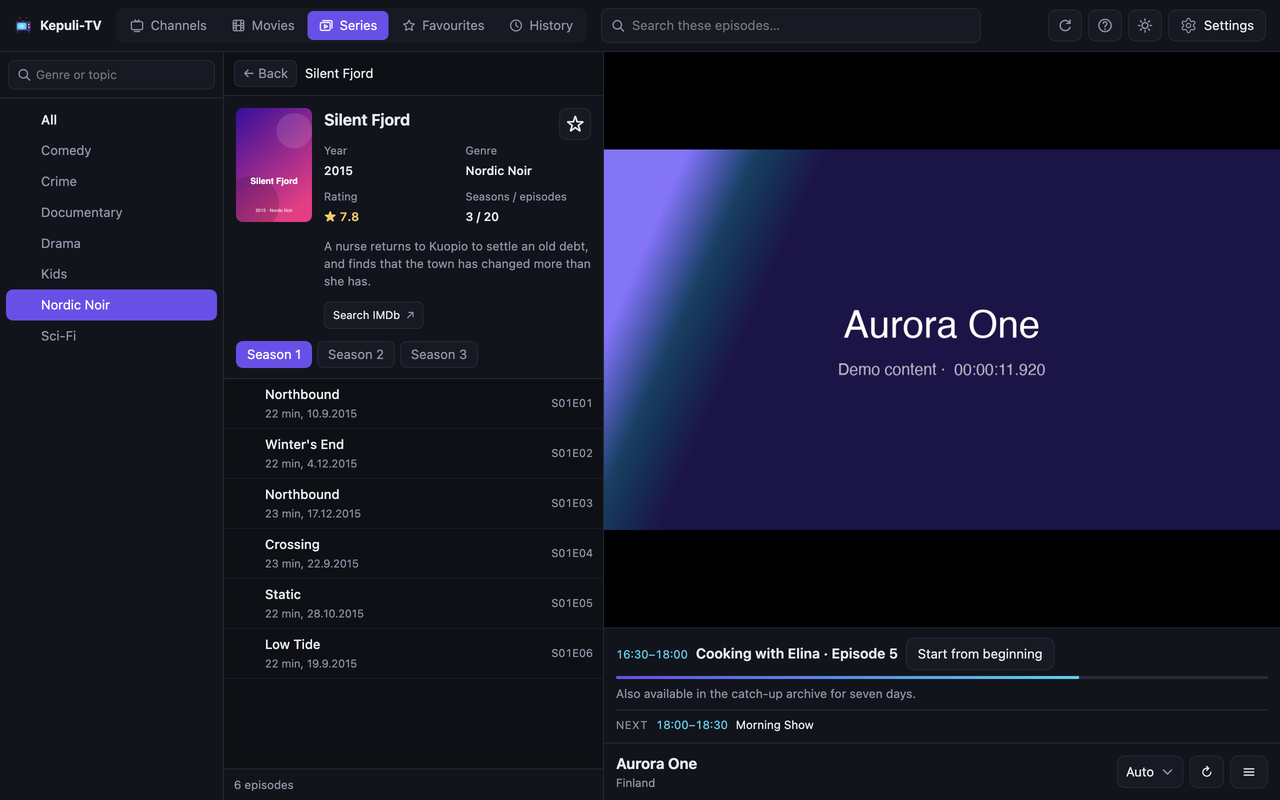
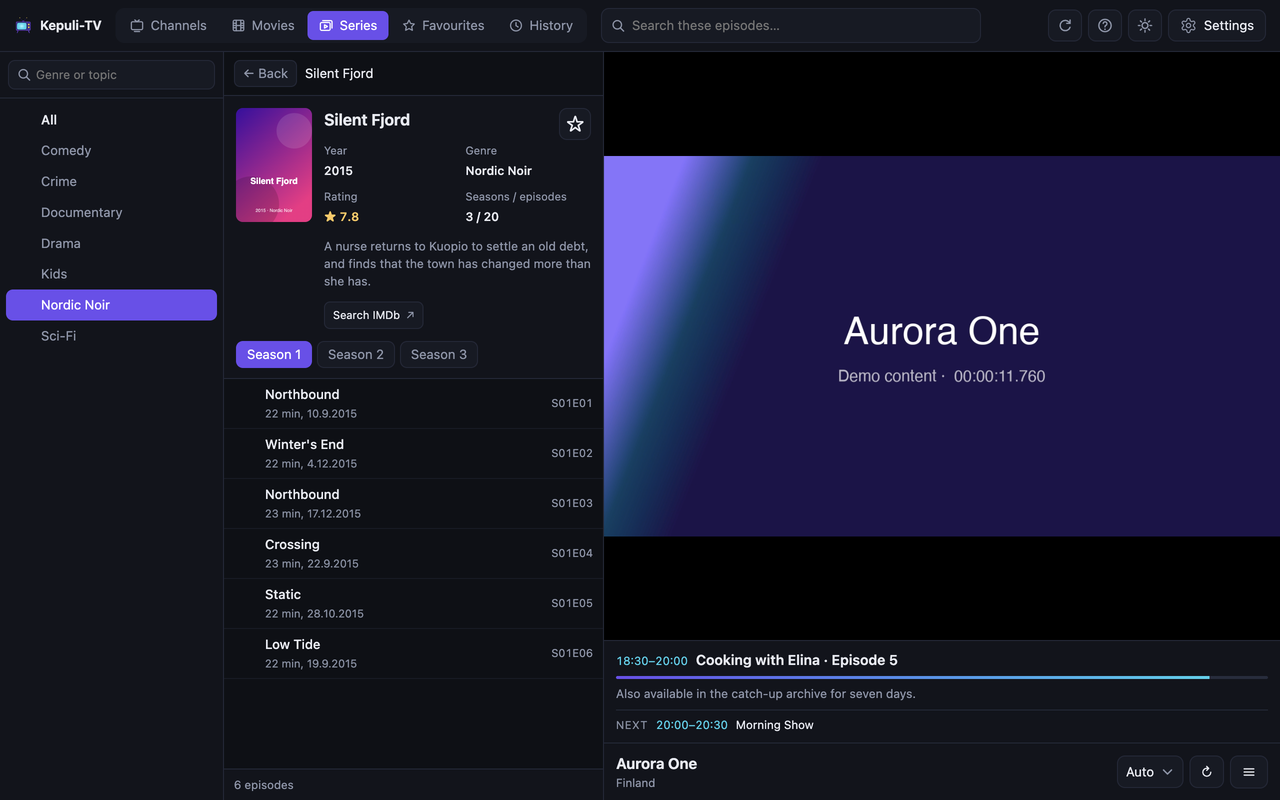
Retake both stores' screenshots, and set down how AMO's languages really work
- Both sets of store screenshots are taken again from the released player:
  the old first picture still had "Start from beginning" under the player.
- store-listing.txt: AMO does not read the name and the summary from
  _locales/, so every language's three fields and its screenshot captions
  are filled in by hand; the table names each language as AMO's menu does,
  with its code and its file. AMO has no Danish, so Danish readers get the
  English listing; Portuguese (Europe) takes the Brazilian text.
- brand/firefox-screenshots/README.md: the captions in the twelve other
  languages, as they now stand on AMO.

Claude-Session: https://claude.ai/code/session_011jsMnraukZKfM6bFsVwDJM

diff --git a/brand/firefox-screenshots/README.md b/brand/firefox-screenshots/README.md
@@ -19,3 +19,120 @@ would need a 2560 × 1600 window — so this set is captured at 1×.
 | 03-series.png | Browse series details, seasons and episodes. Shown with fictional demo content in Firefox. |
 | 04-subtitles.png | Play an MKV episode with text subtitles and choose their language and size. Shown with fictional demo content in Firefox. |
 | 05-movie.png | Watch a movie with its description and details beside your catalogue, shown as covers. Shown with fictional demo content in Firefox. |
+
+## The captions in the listing's other languages
+
+AMO keeps a caption per screenshot per language (Edit Product Page → Images,
+with "Localize for:" set to the language). Each uses the form of address of
+that language's store listing. AMO has no Danish, so there is none here; see
+"SETTING THE LANGUAGES ON ADDONS.MOZILLA.ORG" in store-listing.txt.
+
+### suomi (fi)
+
+| File | Caption |
+| --- | --- |
+| 01-channels.png | Selaa kanavia maittain ja aiheittain samalla, kun katsot suoraa lähetystä. Kuvassa kuvitteellista demosisältöä Firefoxissa. |
+| 02-guide.png | Tutki ohjelmaopasta, kun toisto jatkuu minisoittimessa. Kuvassa kuvitteellista demosisältöä Firefoxissa. |
+| 03-series.png | Selaa sarjan tietoja, tuotantokausia ja jaksoja. Kuvassa kuvitteellista demosisältöä Firefoxissa. |
+| 04-subtitles.png | Toista MKV-jakso tekstityksineen ja valitse tekstityksen kieli ja koko. Kuvassa kuvitteellista demosisältöä Firefoxissa. |
+| 05-movie.png | Katso elokuvaa niin, että sen kuvaus ja tiedot ovat vieressä ja kokoelmasi kansikuvina. Kuvassa kuvitteellista demosisältöä Firefoxissa. |
+
+### Svenska (sv-SE)
+
+| File | Caption |
+| --- | --- |
+| 01-channels.png | Bläddra bland kanaler efter land och ämne medan du tittar på live-tv. Visas med påhittat demoinnehåll i Firefox. |
+| 02-guide.png | Utforska programguiden medan uppspelningen fortsätter i minispelaren. Visas med påhittat demoinnehåll i Firefox. |
+| 03-series.png | Bläddra bland seriens detaljer, säsonger och avsnitt. Visas med påhittat demoinnehåll i Firefox. |
+| 04-subtitles.png | Spela upp ett MKV-avsnitt med undertexter och välj deras språk och storlek. Visas med påhittat demoinnehåll i Firefox. |
+| 05-movie.png | Titta på en film med beskrivning och detaljer bredvid din katalog, visad som omslag. Visas med påhittat demoinnehåll i Firefox. |
+
+### Norsk bokmål (nb-NO)
+
+| File | Caption |
+| --- | --- |
+| 01-channels.png | Bla gjennom kanaler etter land og emne mens du ser direkte-TV. Vist med oppdiktet demoinnhold i Firefox. |
+| 02-guide.png | Utforsk programguiden mens avspillingen fortsetter i minispilleren. Vist med oppdiktet demoinnhold i Firefox. |
+| 03-series.png | Bla gjennom seriedetaljer, sesonger og episoder. Vist med oppdiktet demoinnhold i Firefox. |
+| 04-subtitles.png | Spill av en MKV-episode med undertekster og velg språk og størrelse på dem. Vist med oppdiktet demoinnhold i Firefox. |
+| 05-movie.png | Se en film med beskrivelse og detaljer ved siden av katalogen din, vist som omslag. Vist med oppdiktet demoinnhold i Firefox. |
+
+### Deutsch (de)
+
+| File | Caption |
+| --- | --- |
+| 01-channels.png | Durchstöbere Sender nach Land und Thema, während du Live-TV schaust. Gezeigt mit erfundenen Demo-Inhalten in Firefox. |
+| 02-guide.png | Erkunde den Programmführer, während die Wiedergabe im Mini-Player weiterläuft. Gezeigt mit erfundenen Demo-Inhalten in Firefox. |
+| 03-series.png | Durchstöbere Seriendetails, Staffeln und Folgen. Gezeigt mit erfundenen Demo-Inhalten in Firefox. |
+| 04-subtitles.png | Spiele eine MKV-Folge mit Untertiteln ab und wähle deren Sprache und Größe. Gezeigt mit erfundenen Demo-Inhalten in Firefox. |
+| 05-movie.png | Schau einen Film mit Beschreibung und Details neben deinem Katalog, als Cover dargestellt. Gezeigt mit erfundenen Demo-Inhalten in Firefox. |
+
+### Nederlands (nl)
+
+| File | Caption |
+| --- | --- |
+| 01-channels.png | Blader door zenders op land en onderwerp terwijl je live-tv kijkt. Getoond met verzonnen demo-inhoud in Firefox. |
+| 02-guide.png | Verken de programmagids terwijl het afspelen doorgaat in de minispeler. Getoond met verzonnen demo-inhoud in Firefox. |
+| 03-series.png | Bekijk de gegevens, seizoenen en afleveringen van een serie. Getoond met verzonnen demo-inhoud in Firefox. |
+| 04-subtitles.png | Speel een MKV-aflevering af met ondertiteling en kies de taal en grootte ervan. Getoond met verzonnen demo-inhoud in Firefox. |
+| 05-movie.png | Kijk een film met beschrijving en details naast je catalogus, weergegeven als covers. Getoond met verzonnen demo-inhoud in Firefox. |
+
+### Français (fr)
+
+| File | Caption |
+| --- | --- |
+| 01-channels.png | Parcours les chaînes par pays et par thème tout en regardant la télé en direct. Présenté avec du contenu de démonstration fictif dans Firefox. |
+| 02-guide.png | Explore le guide des programmes pendant que la lecture continue dans le mini-lecteur. Présenté avec du contenu de démonstration fictif dans Firefox. |
+| 03-series.png | Parcours les détails d’une série, ses saisons et ses épisodes. Présenté avec du contenu de démonstration fictif dans Firefox. |
+| 04-subtitles.png | Lis un épisode MKV avec ses sous-titres et choisis leur langue et leur taille. Présenté avec du contenu de démonstration fictif dans Firefox. |
+| 05-movie.png | Regarde un film avec son résumé et ses détails à côté de ton catalogue, affiché en jaquettes. Présenté avec du contenu de démonstration fictif dans Firefox. |
+
+### Español de España (es-ES)
+
+| File | Caption |
+| --- | --- |
+| 01-channels.png | Explora los canales por país y tema mientras ves la televisión en directo. Mostrado con contenido de demostración ficticio en Firefox. |
+| 02-guide.png | Consulta la guía de programación mientras la reproducción continúa en el minirreproductor. Mostrado con contenido de demostración ficticio en Firefox. |
+| 03-series.png | Explora los detalles de una serie, sus temporadas y sus episodios. Mostrado con contenido de demostración ficticio en Firefox. |
+| 04-subtitles.png | Reproduce un episodio MKV con subtítulos y elige su idioma y su tamaño. Mostrado con contenido de demostración ficticio en Firefox. |
+| 05-movie.png | Mira una película con su sinopsis y sus detalles junto a tu catálogo, mostrado en portadas. Mostrado con contenido de demostración ficticio en Firefox. |
+
+### Português do Brasil (pt-BR), also used for Português Europeu (pt-PT)
+
+| File | Caption |
+| --- | --- |
+| 01-channels.png | Navegue pelos canais por país e tema enquanto assiste à TV ao vivo. Exibido com conteúdo de demonstração fictício no Firefox. |
+| 02-guide.png | Explore o guia de programação enquanto a reprodução continua no miniplayer. Exibido com conteúdo de demonstração fictício no Firefox. |
+| 03-series.png | Veja os detalhes de uma série, suas temporadas e seus episódios. Exibido com conteúdo de demonstração fictício no Firefox. |
+| 04-subtitles.png | Reproduza um episódio em MKV com legendas e escolha o idioma e o tamanho delas. Exibido com conteúdo de demonstração fictício no Firefox. |
+| 05-movie.png | Assista a um filme com a sinopse e os detalhes ao lado do seu catálogo, exibido em capas. Exibido com conteúdo de demonstração fictício no Firefox. |
+
+### Italiano (it)
+
+| File | Caption |
+| --- | --- |
+| 01-channels.png | Sfoglia i canali per paese e argomento mentre guardi la TV in diretta. Mostrato con contenuti dimostrativi fittizi in Firefox. |
+| 02-guide.png | Esplora la guida TV mentre la riproduzione continua nel mini player. Mostrato con contenuti dimostrativi fittizi in Firefox. |
+| 03-series.png | Sfoglia i dettagli di una serie, le stagioni e gli episodi. Mostrato con contenuti dimostrativi fittizi in Firefox. |
+| 04-subtitles.png | Riproduci un episodio MKV con i sottotitoli e scegline lingua e dimensione. Mostrato con contenuti dimostrativi fittizi in Firefox. |
+| 05-movie.png | Guarda un film con trama e dettagli accanto al tuo catalogo, mostrato come copertine. Mostrato con contenuti dimostrativi fittizi in Firefox. |
+
+### Polski (pl)
+
+| File | Caption |
+| --- | --- |
+| 01-channels.png | Przeglądaj kanały według kraju i tematu, oglądając telewizję na żywo. Pokazano na fikcyjnych treściach demonstracyjnych w Firefoksie. |
+| 02-guide.png | Przeglądaj przewodnik po programach, podczas gdy odtwarzanie trwa w miniodtwarzaczu. Pokazano na fikcyjnych treściach demonstracyjnych w Firefoksie. |
+| 03-series.png | Przeglądaj szczegóły serialu, sezony i odcinki. Pokazano na fikcyjnych treściach demonstracyjnych w Firefoksie. |
+| 04-subtitles.png | Odtwórz odcinek MKV z napisami i wybierz ich język oraz rozmiar. Pokazano na fikcyjnych treściach demonstracyjnych w Firefoksie. |
+| 05-movie.png | Oglądaj film z opisem i szczegółami obok swojego katalogu wyświetlanego jako okładki. Pokazano na fikcyjnych treściach demonstracyjnych w Firefoksie. |
+
+### Türkçe (tr)
+
+| File | Caption |
+| --- | --- |
+| 01-channels.png | Canlı TV izlerken kanallara ülkeye ve konuya göre göz at. Firefox'ta kurgusal demo içerikle gösterilmektedir. |
+| 02-guide.png | Oynatma mini oynatıcıda sürerken yayın akışını keşfet. Firefox'ta kurgusal demo içerikle gösterilmektedir. |
+| 03-series.png | Bir dizinin ayrıntılarına, sezonlarına ve bölümlerine göz at. Firefox'ta kurgusal demo içerikle gösterilmektedir. |
+| 04-subtitles.png | Bir MKV bölümünü altyazılarıyla oynat, altyazıların dilini ve boyutunu seç. Firefox'ta kurgusal demo içerikle gösterilmektedir. |
+| 05-movie.png | Kapak görünümündeki kataloğunun yanında, açıklaması ve ayrıntılarıyla bir film izle. Firefox'ta kurgusal demo içerikle gösterilmektedir. |
